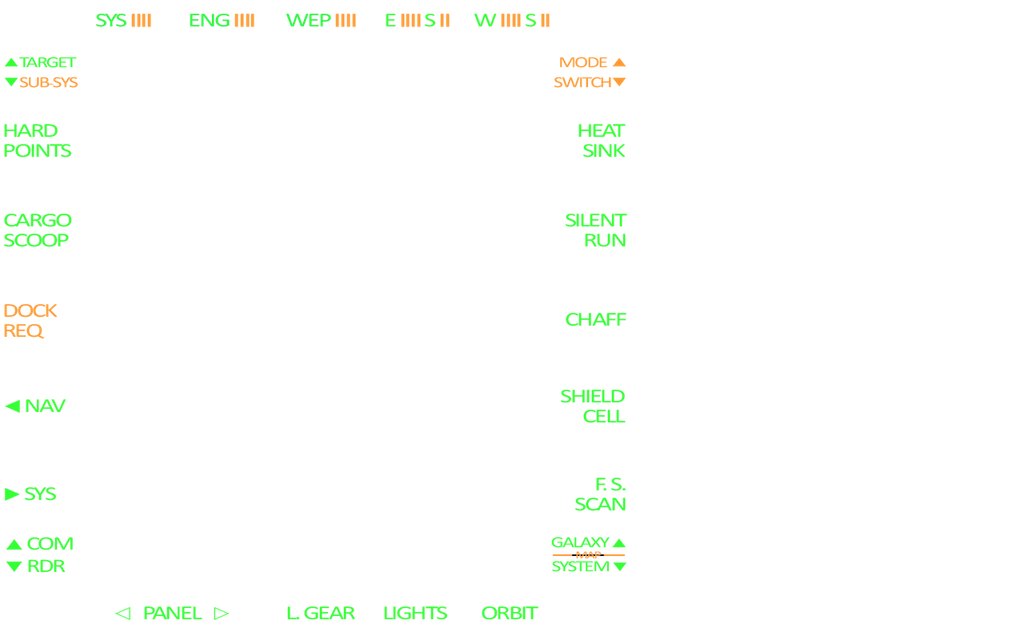
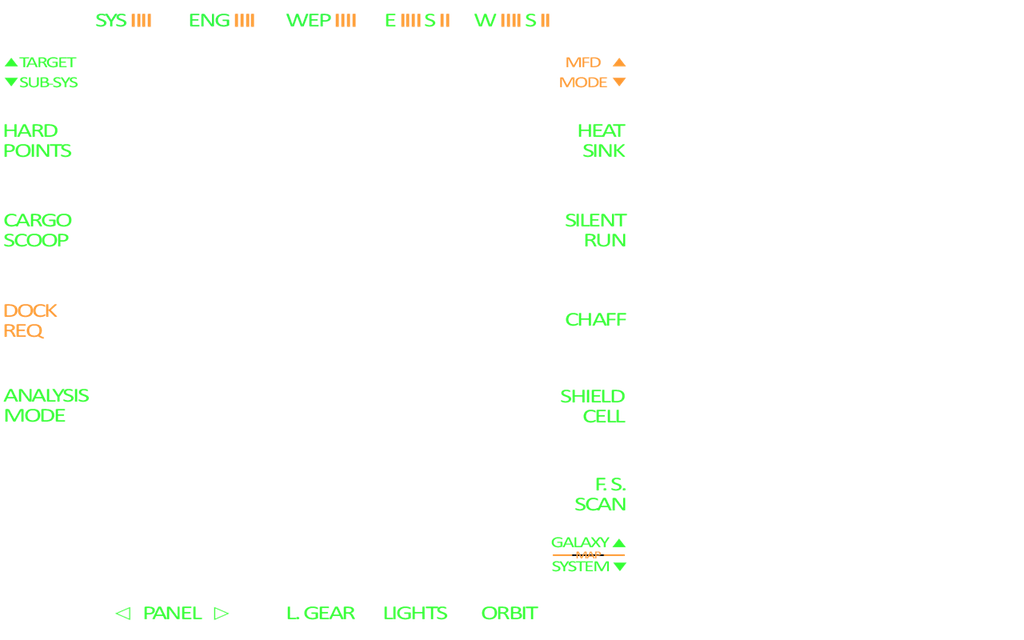
add Analysis mode button

diff --git a/ed_object.py b/ed_object.py
@@ -85,6 +85,11 @@ class Ship:
             buttons[MFD_LIGHTS].set_state(Button.STATE_ON)
         else:
             buttons[MFD_LIGHTS].set_state(Button.STATE_OFF)
+        # MFD_ANALYSIS
+        if self.status.is_flagged("in_analysis"):
+            buttons[MFD_ANALYSIS].set_state(Button.STATE_ON)
+        else:
+            buttons[MFD_ANALYSIS].set_state(Button.STATE_OFF)
 
     def update_status_pips(self, _pips, buttons):
         self.pips = _pips
@@ -110,12 +115,12 @@ class Ship:
 
     def update_status_firegroup(self, _firegroup, buttons):
         self.firegroup = _firegroup
-        logger.debug("Fire Group: %s" % self.firegroup)
+        #logger.debug("Fire Group: %s" % self.firegroup)
         return
 
     def update_status_guifocus(self, _guifocus, buttons):
         self.guifocus = _guifocus
-        logger.debug("GUI Focus: %s" % self.guifocus)
+        #logger.debug("GUI Focus: %s" % self.guifocus)
         # MFD_FSS
         if self.guifocus == GUI_MODE_FSS:
             buttons[MFD_FSS].set_state(Button.STATE_ON)
@@ -125,17 +130,17 @@ class Ship:
 
     def update_status_fuel(self, _fuel, buttons):
         self.fuel = _fuel
-        logger.debug("Fuel (tons): %s" % self.fuel)
+        #logger.debug("Fuel (tons): %s" % self.fuel)
         return
 
     def update_status_cargo(self, _cargo, buttons):
         self.cargo = _cargo
-        logger.debug("Cargo (tons): %s" % self.cargo)
+        #logger.debug("Cargo (tons): %s" % self.cargo)
         return
 
     def update_status_bearings(self, _lat, _long, _head, _alt):
         self.bearings = (float(_lat), float(_long), int(_head), int(_alt))
-        logger.debug("Lat / Long: %f / %f\tHead / Alt: %d / %d" % self.bearings)
+        #logger.debug("Lat / Long: %f / %f\tHead / Alt: %d / %d" % self.bearings)
         return
 
     def get_status(self):

diff --git a/mfd.py b/mfd.py
@@ -59,7 +59,8 @@ MFD.bmp = [ None,	# 0
     Button("Orbit Lines" , MFD_ORBITLINES, MFD_XC5, MFD_YB1, COLOR_GREEN,  Button.TYPE_TOGGLE),	# 11
     Button("Ship Lights" , MFD_LIGHTS,     MFD_XC4, MFD_YB1, COLOR_GREEN,  Button.TYPE_TOGGLE),	# 12
     Button("Landing Gear", MFD_LANDING,    MFD_XC3, MFD_YB1, COLOR_GREEN,  Button.TYPE_TOGGLE),	# 13
-    None, None, None, None, 							# 14 - 17
+    None, None, None, 								# 14 - 16
+    Button("In Analysis" , MFD_ANALYSIS,   MFD_XL1, MFD_YC4, COLOR_GREEN,  Button.TYPE_TOGGLE),	# 17
     Button("Docking Req" , MFD_DOCKINGREQ, MFD_XL1, MFD_YC3, COLOR_ORANGE),	# 18
     Button("Cargo Scoop" , MFD_CARGOSCOOP, MFD_XL1, MFD_YC2, COLOR_GREEN,  Button.TYPE_TOGGLE),	# 19
     Button("Hard Points" , MFD_HARDPOINT,  MFD_XL1, MFD_YC1, COLOR_GREEN,  Button.TYPE_TOGGLE),	# 20
@@ -156,6 +157,7 @@ while True:
         if event.key == pygame.K_n:  joy_index = MFD_LIGHTS	# Ship Lights
         if event.key == pygame.K_o:  joy_index = MFD_ORBITLINES	# Orbit Lines
         if event.key == pygame.K_q:  joy_index = MFD_DOCKINGREQ	# Docking Req
+        if event.key == pygame.K_s:  joy_index = MFD_ANALYSIS	# In Analysis
         if joy_index > 0:
             button_pressed = MFD.bmp[joy_index]
             MFD.set_update()

diff --git a/constants.py b/constants.py
@@ -36,6 +36,7 @@ MFD_FSS        = 10
 MFD_ORBITLINES = 11
 MFD_LIGHTS     = 12
 MFD_LANDING    = 13
+MFD_ANALYSIS   = 17
 MFD_DOCKINGREQ = 18
 MFD_CARGOSCOOP = 19
 MFD_HARDPOINT  = 20
